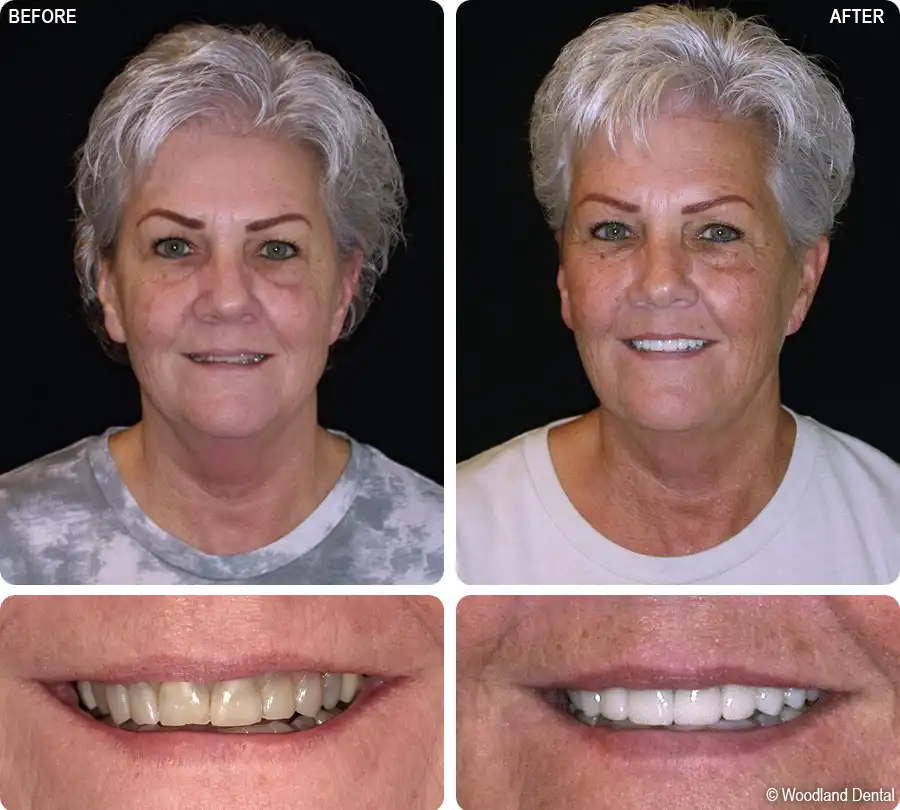
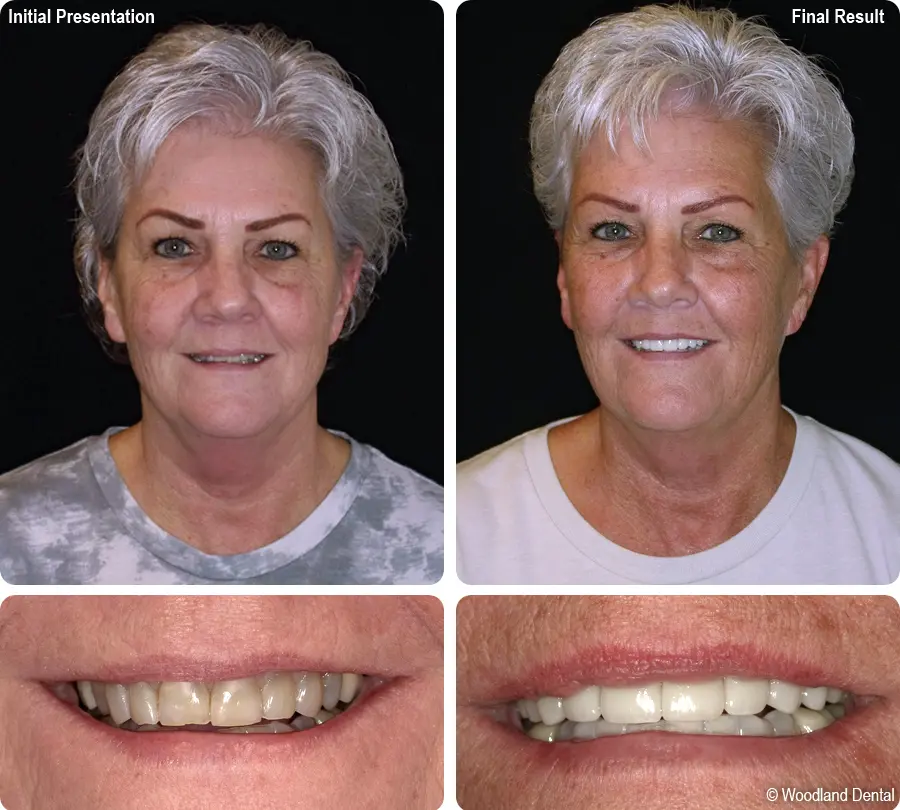
smile

Changed region(s): [[0.4978, 0.7099, 1.0, 1.0], [0.0, 0.0, 0.1867, 0.0309], [0.8711, 0.0, 0.9956, 0.0309]]

diff --git a/index.html b/index.html
@@ -209,11 +209,11 @@
 
 
 <h4>Client Solution</h4>
-<h5><b>PROBLEM:</b> Tetracyline staining</h5>
-<h5><b>SOLUTION:</b> Cosmetic Crowns</h5>
 <img src="smile/fix20.webp" alt="" class="smile" width="900" height="810">
-
-
+<h4>Client Solution</h4>
+<img src="smile/fix00.webp" alt="" class="smile" width="900" height="810">
+<h4>Client Solution</h4>
+<img src="smile/fix01.webp" alt="" class="smile" width="900" height="810">
 
 
 
